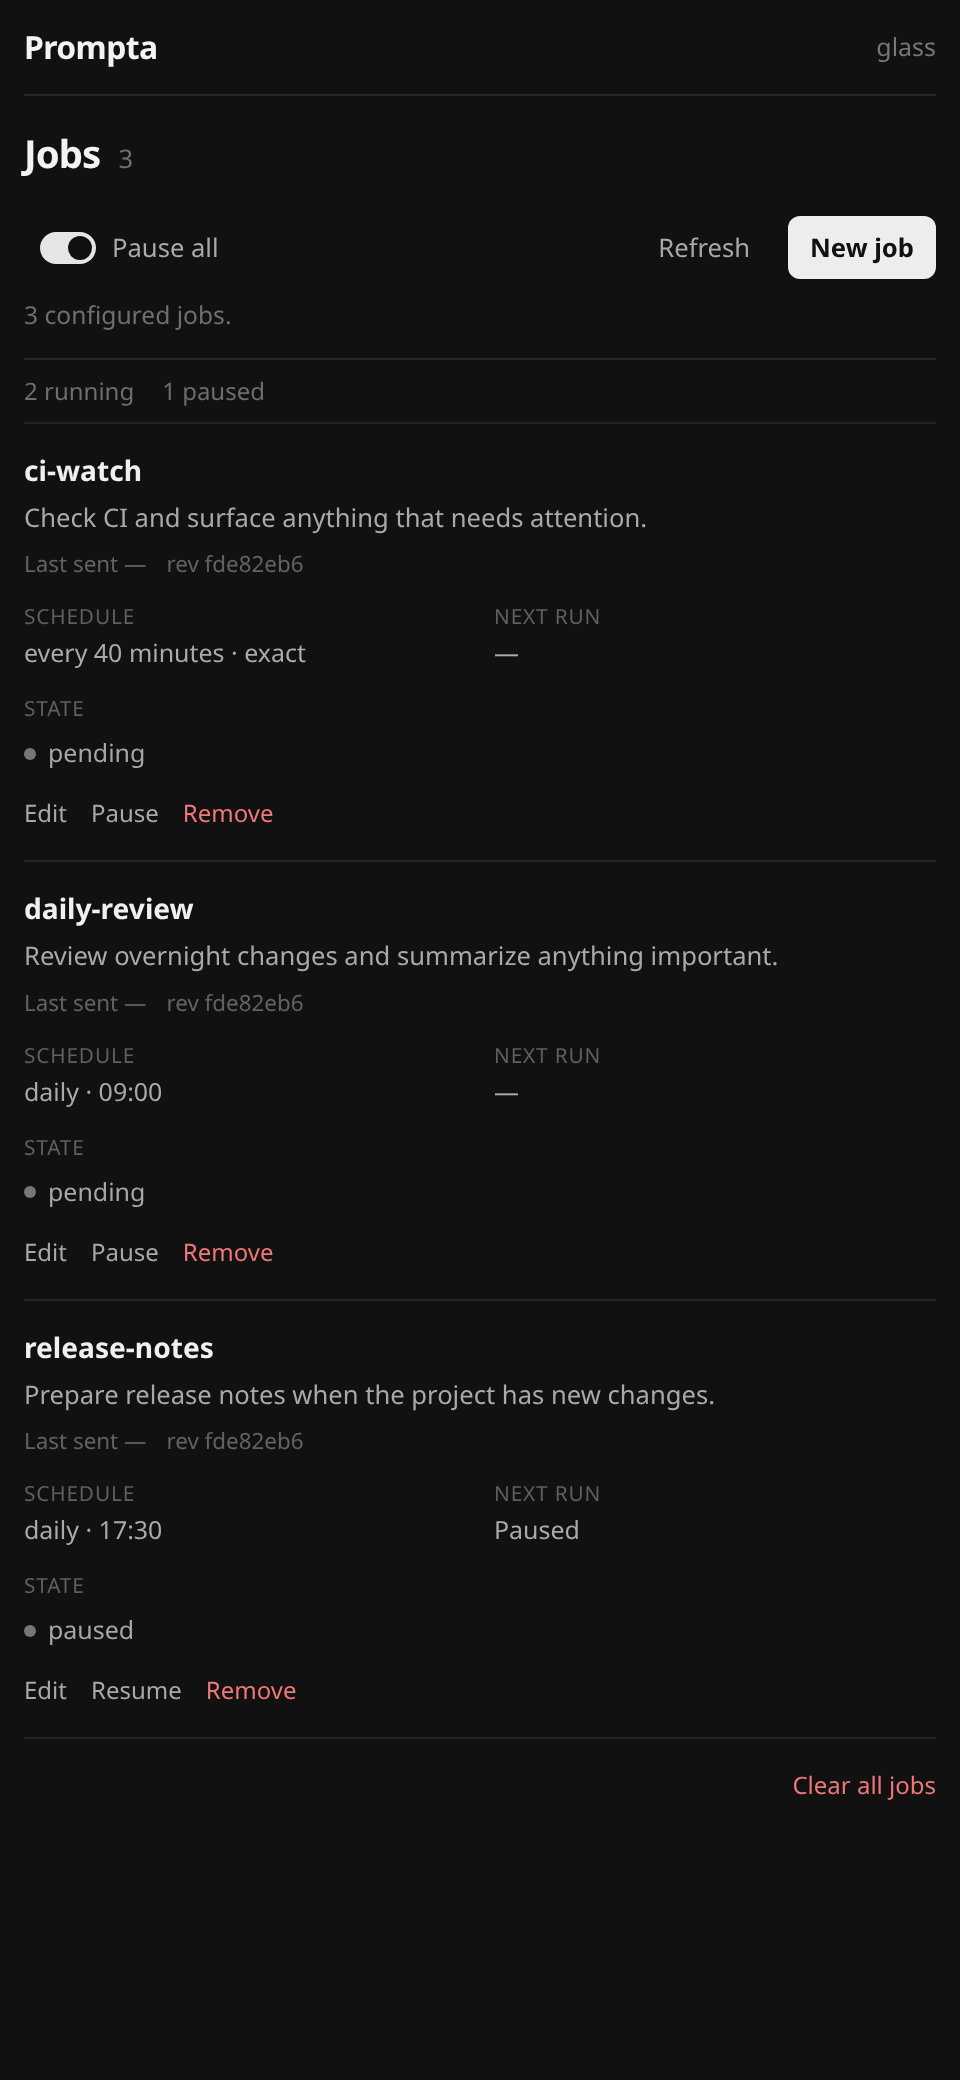
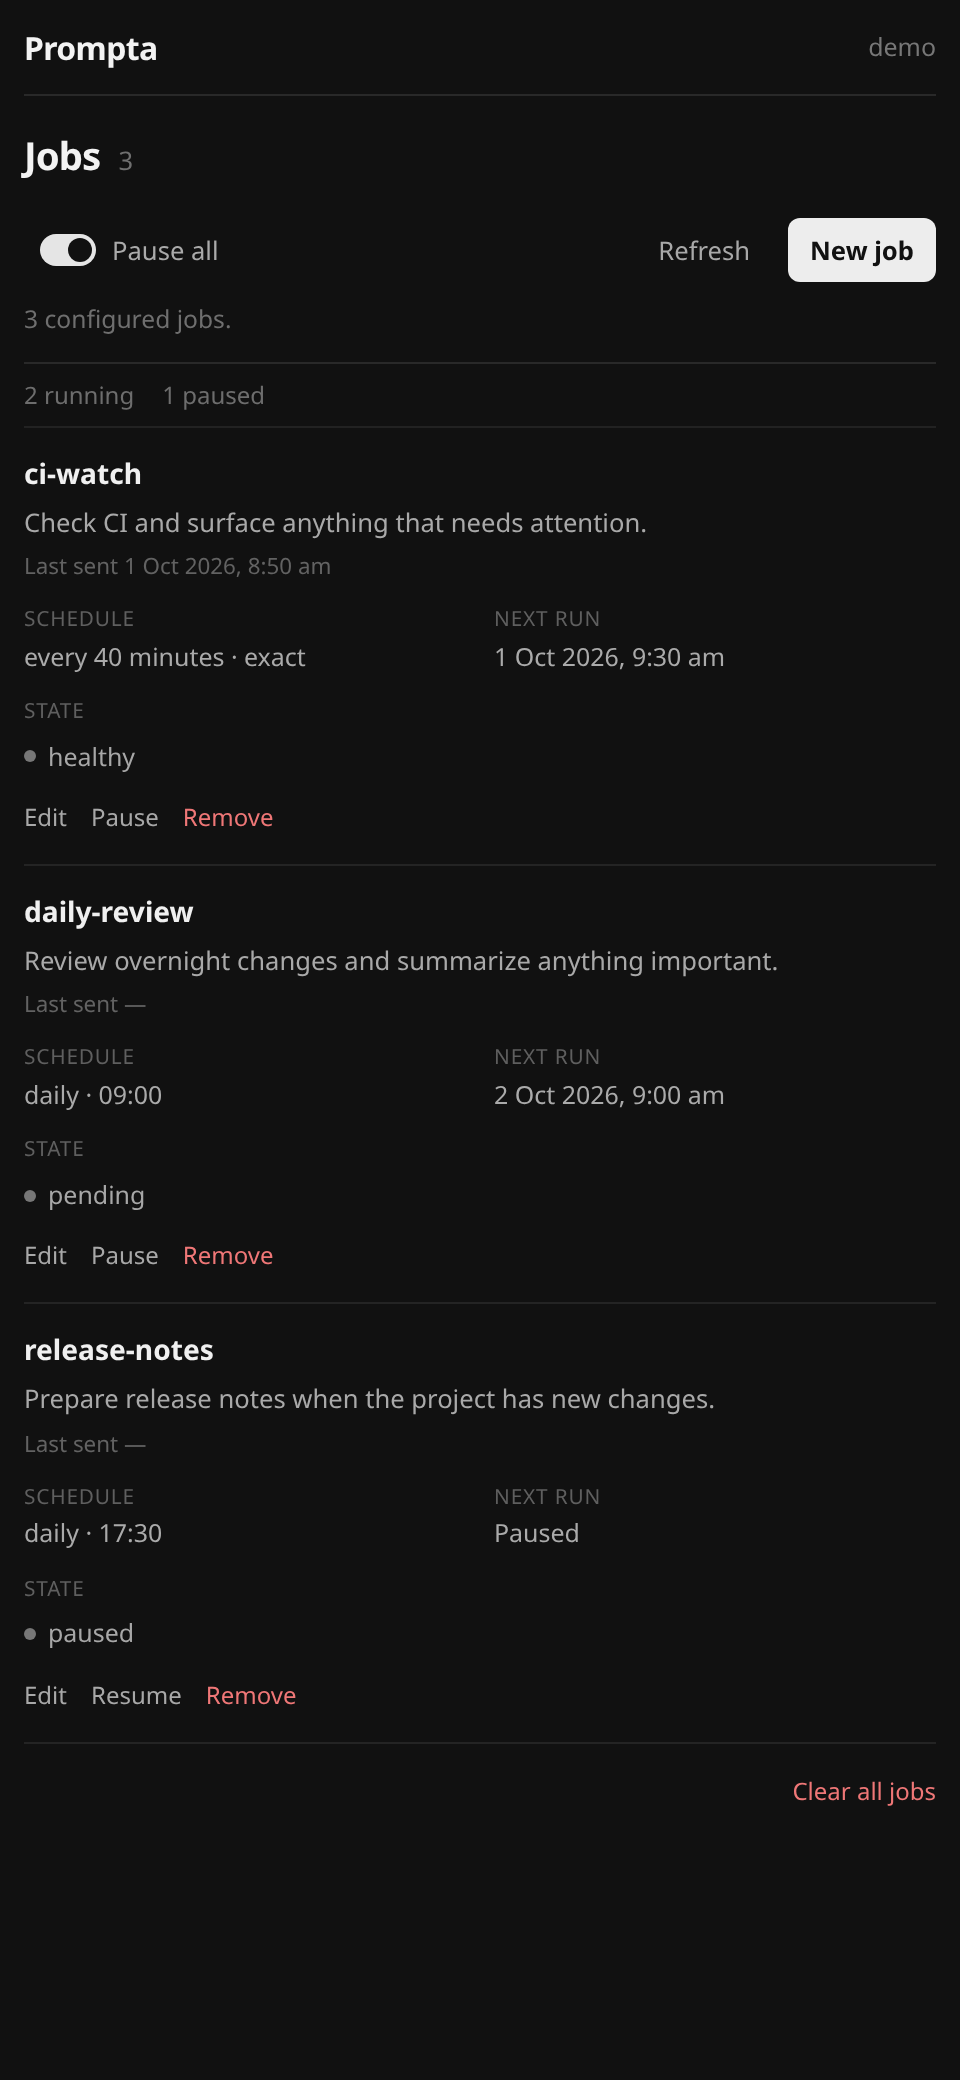
Fix README screenshot workflow

diff --git a/scripts/generate_readme_screenshots.py b/scripts/generate_readme_screenshots.py
@@ -1,0 +1,272 @@
+from __future__ import annotations
+
+import html
+import io
+import os
+import sys
+import tempfile
+import threading
+import time
+from contextlib import redirect_stdout
+from datetime import datetime, timedelta, timezone
+from pathlib import Path
+from unittest.mock import patch
+
+from playwright.sync_api import Browser, Playwright, sync_playwright
+
+from prompta import core
+from prompta.scheduler_runtime import SchedulerRuntime
+from prompta.web import PromptaJobServer
+
+ROOT = Path(__file__).resolve().parents[1]
+CLI_OUTPUT = ROOT / "docs" / "prompta-cli.png"
+UI_OUTPUT = ROOT / "docs" / "prompta-ui-mobile.png"
+FIXED_NOW = datetime(
+    2026,
+    10,
+    1,
+    9,
+    0,
+    tzinfo=timezone(timedelta(hours=13)),
+).timestamp()
+
+
+def _set_timezone() -> str | None:
+    previous = os.environ.get("TZ")
+    os.environ["TZ"] = "Pacific/Auckland"
+    tzset = getattr(time, "tzset", None)
+    if callable(tzset):
+        tzset()
+    return previous
+
+
+def _restore_timezone(previous: str | None) -> None:
+    if previous is None:
+        os.environ.pop("TZ", None)
+    else:
+        os.environ["TZ"] = previous
+    tzset = getattr(time, "tzset", None)
+    if callable(tzset):
+        tzset()
+
+
+def _create_demo_runtime(root: Path) -> Path:
+    runtime_path = root / "runtime.sqlite3"
+    core.add_job(
+        runtime_path,
+        "ci-watch",
+        "Check CI and surface anything that needs attention.",
+        40 * 60,
+        exact_interval=True,
+        source_revision="",
+    )
+    core.add_job(
+        runtime_path,
+        "daily-review",
+        "Review overnight changes and summarize anything important.",
+        daily_at="09:00",
+        source_revision="",
+    )
+    core.add_job(
+        runtime_path,
+        "release-notes",
+        "Prepare release notes when the project has new changes.",
+        daily_at="17:30",
+        source_revision="",
+    )
+
+    runtime = SchedulerRuntime(runtime_path, runtime_path)
+    runtime.update_job_state(
+        "ci-watch",
+        {
+            "last_sent_at": FIXED_NOW - 10 * 60,
+            "next_due_at_epoch": FIXED_NOW + 30 * 60,
+            "status": "healthy",
+        },
+    )
+    runtime.update_job_state(
+        "daily-review",
+        {
+            "initial_due_at_epoch": FIXED_NOW + 24 * 60 * 60,
+            "status": "pending",
+        },
+    )
+    runtime.update_job_state(
+        "release-notes",
+        {
+            "initial_due_at_epoch": FIXED_NOW + 8.5 * 60 * 60,
+            "paused": True,
+            "status": "paused",
+        },
+    )
+    return runtime_path
+
+
+def _capture_cli(runtime_path: Path) -> str:
+    output = io.StringIO()
+    argv = [
+        "prompta",
+        "list",
+        "--jobs-file",
+        str(runtime_path),
+        "--state",
+        str(runtime_path),
+    ]
+    with (
+        redirect_stdout(output),
+        patch.object(core.time, "time", return_value=FIXED_NOW),
+        patch.object(sys, "argv", argv),
+    ):
+        core.main()
+    return "$ prompta list\n" + output.getvalue()
+
+
+def _browser(playwright: Playwright) -> Browser:
+    configured = os.environ.get("PROMPTA_README_BROWSER")
+    if configured:
+        return playwright.chromium.launch(headless=True, executable_path=configured)
+
+    for candidate in (
+        Path("/usr/bin/chromium"),
+        Path("/usr/bin/chromium-browser"),
+        Path("/usr/bin/google-chrome"),
+        Path("/usr/bin/google-chrome-stable"),
+    ):
+        if candidate.is_file():
+            return playwright.chromium.launch(headless=True, executable_path=str(candidate))
+
+    return playwright.chromium.launch(headless=True)
+
+
+def _render_cli(browser: Browser, output: str) -> None:
+    context = browser.new_context(
+        viewport={"width": 1200, "height": 520},
+        device_scale_factor=2,
+        locale="en-NZ",
+        timezone_id="Pacific/Auckland",
+        color_scheme="dark",
+    )
+    try:
+        page = context.new_page()
+        escaped = html.escape(output)
+        page.set_content(
+            f"""
+            <!doctype html>
+            <meta charset="utf-8">
+            <style>
+              html, body {{
+                margin: 0;
+                background: #0d1117;
+                color: #e6edf3;
+                font-family: "DejaVu Sans Mono", "Noto Sans Mono", monospace;
+              }}
+              body {{ padding: 28px; }}
+              .terminal {{
+                display: inline-block;
+                overflow: hidden;
+                border: 1px solid #30363d;
+                border-radius: 12px;
+                background: #0d1117;
+                box-shadow: 0 12px 36px rgba(0, 0, 0, 0.28);
+              }}
+              .bar {{
+                height: 34px;
+                display: flex;
+                align-items: center;
+                gap: 8px;
+                padding: 0 14px;
+                border-bottom: 1px solid #30363d;
+                background: #161b22;
+              }}
+              .dot {{
+                width: 10px;
+                height: 10px;
+                border-radius: 50%;
+                background: #30363d;
+              }}
+              .title {{
+                margin-left: 8px;
+                color: #8b949e;
+                font: 12px system-ui, sans-serif;
+              }}
+              pre {{
+                width: max-content;
+                margin: 0;
+                padding: 22px 24px 24px;
+                font: 15px/1.5 "DejaVu Sans Mono", "Noto Sans Mono", monospace;
+              }}
+            </style>
+            <div class="terminal">
+              <div class="bar">
+                <span class="dot"></span>
+                <span class="dot"></span>
+                <span class="dot"></span>
+                <span class="title">Prompta CLI</span>
+              </div>
+              <pre>{escaped}</pre>
+            </div>
+            """
+        )
+        CLI_OUTPUT.parent.mkdir(parents=True, exist_ok=True)
+        page.locator(".terminal").screenshot(path=str(CLI_OUTPUT), animations="disabled")
+    finally:
+        context.close()
+
+
+def _render_ui(browser: Browser, runtime_path: Path) -> None:
+    with patch("prompta.web.socket.gethostname", return_value="demo"):
+        server = PromptaJobServer(
+            ("127.0.0.1", 0),
+            state_path=runtime_path,
+            jobs_path=runtime_path,
+        )
+    thread = threading.Thread(
+        target=server.serve_forever, kwargs={"poll_interval": 0.05}, daemon=True
+    )
+    thread.start()
+
+    context = browser.new_context(
+        viewport={"width": 480, "height": 1040},
+        device_scale_factor=2,
+        locale="en-NZ",
+        timezone_id="Pacific/Auckland",
+        color_scheme="dark",
+        is_mobile=True,
+        has_touch=True,
+    )
+    try:
+        page = context.new_page()
+        port = int(server.server_address[1])
+        page.goto(f"http://127.0.0.1:{port}/", wait_until="networkidle")
+        page.get_by_role("table", name="Scheduled jobs").wait_for()
+        UI_OUTPUT.parent.mkdir(parents=True, exist_ok=True)
+        page.screenshot(path=str(UI_OUTPUT), animations="disabled")
+    finally:
+        context.close()
+        server.shutdown()
+        server.server_close()
+        thread.join(timeout=2)
+
+
+def main() -> None:
+    previous_timezone = _set_timezone()
+    try:
+        with tempfile.TemporaryDirectory(prefix="prompta-readme-") as temporary:
+            runtime_path = _create_demo_runtime(Path(temporary))
+            cli_output = _capture_cli(runtime_path)
+            with sync_playwright() as playwright:
+                browser = _browser(playwright)
+                try:
+                    _render_cli(browser, cli_output)
+                    _render_ui(browser, runtime_path)
+                finally:
+                    browser.close()
+    finally:
+        _restore_timezone(previous_timezone)
+
+    print(f"Generated {CLI_OUTPUT.relative_to(ROOT)}")
+    print(f"Generated {UI_OUTPUT.relative_to(ROOT)}")
+
+
+if __name__ == "__main__":
+    main()

diff --git a/src/scheduler_runtime.py b/src/scheduler_runtime.py
@@ -32,7 +32,6 @@ from .scheduler_policy import (
 logger = logging.getLogger(__name__)
 
 
-
 _SEND_GAP_SECONDS = 10.0
 
 
@@ -44,7 +43,6 @@ class SchedulerRuntime:
         self.global_backoff = RateLimitBackoff()
         self.failure_retry_until: dict[str, float] = {}
         self.restore_backoffs()
-
 
     def _connect_state(self) -> sqlite3.Connection:
         connection = connect_sqlite(self.state_path.expanduser())
@@ -373,7 +371,6 @@ class SchedulerRuntime:
                 for key, value in updates.items()
             ],
         )
-
 
     def restore_backoffs(self) -> None:
         state = self.load_state()

diff --git a/src/scheduler_service.py b/src/scheduler_service.py
@@ -174,7 +174,6 @@ class DurableSchedulerProducer:
                 reconciled += 1
         return reconciled
 
-
     def tick(self, *, now: float | None = None) -> int:
         current = time.time() if now is None else float(now)
         work = self.reconcile_terminal_receipts()

diff --git a/src/jobs.py b/src/jobs.py
@@ -64,7 +64,6 @@ class PromptJob:
     source_revision: str = ""
 
 
-
 def _connect(path: Path) -> sqlite3.Connection:
     connection = connect_sqlite(path.expanduser())
     connection.execute(

diff --git a/src/delivery_queue.py b/src/delivery_queue.py
@@ -67,7 +67,6 @@ class DeliveryQueueStore:
                 """
             )
 
-
     @staticmethod
     def record_from_row(row: sqlite3.Row) -> dict[str, Any]:
         return {
